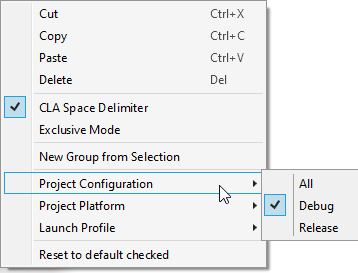
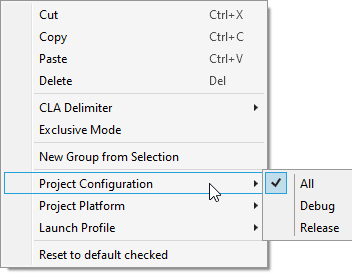
added new delimiter and pre-/postfix options to the readme

diff --git a/README.md b/README.md
@@ -80,7 +80,7 @@ There are also three different types of data which can be pasted:
 
 - **Cut** / **Copy** / **Delete**: Cuts/Copies/Deletes the selected items.
 - **Paste**: Pastes the previously copied/cut items, text, or files (see [Paste](#paste)).
-- **CLA Space Delimiter** (only available while ONE group or project is selected): If this is checked then each argument in the group is seperated by a space when passed to the application.
+- **CLA Delimiter** (only available while ONE group or project is selected): Options to set the string that each argument in the group is separated by. It can be set to a single space which is the default, none or something custom. If custom is selected you can also set a pre- and postfix that is prepend/append if the group is not empty.
 - **Exclusive Mode** (only available while ONE group or project is selected): If this is checked then the group switches to a radio button mode where only one item can be checked at any given time.
 - **New Group from Selection**: Creates a new Group and moves the selected items into it.
 - **Split Argument** (only available while ONE argument is selected): Splits the argument with the typical cmd line parsing rules (e.g. `-o "C:\Test Folder\Output.png"` is split into two arguments `-o` and `"C:\Test Folder\Output.png"`).
